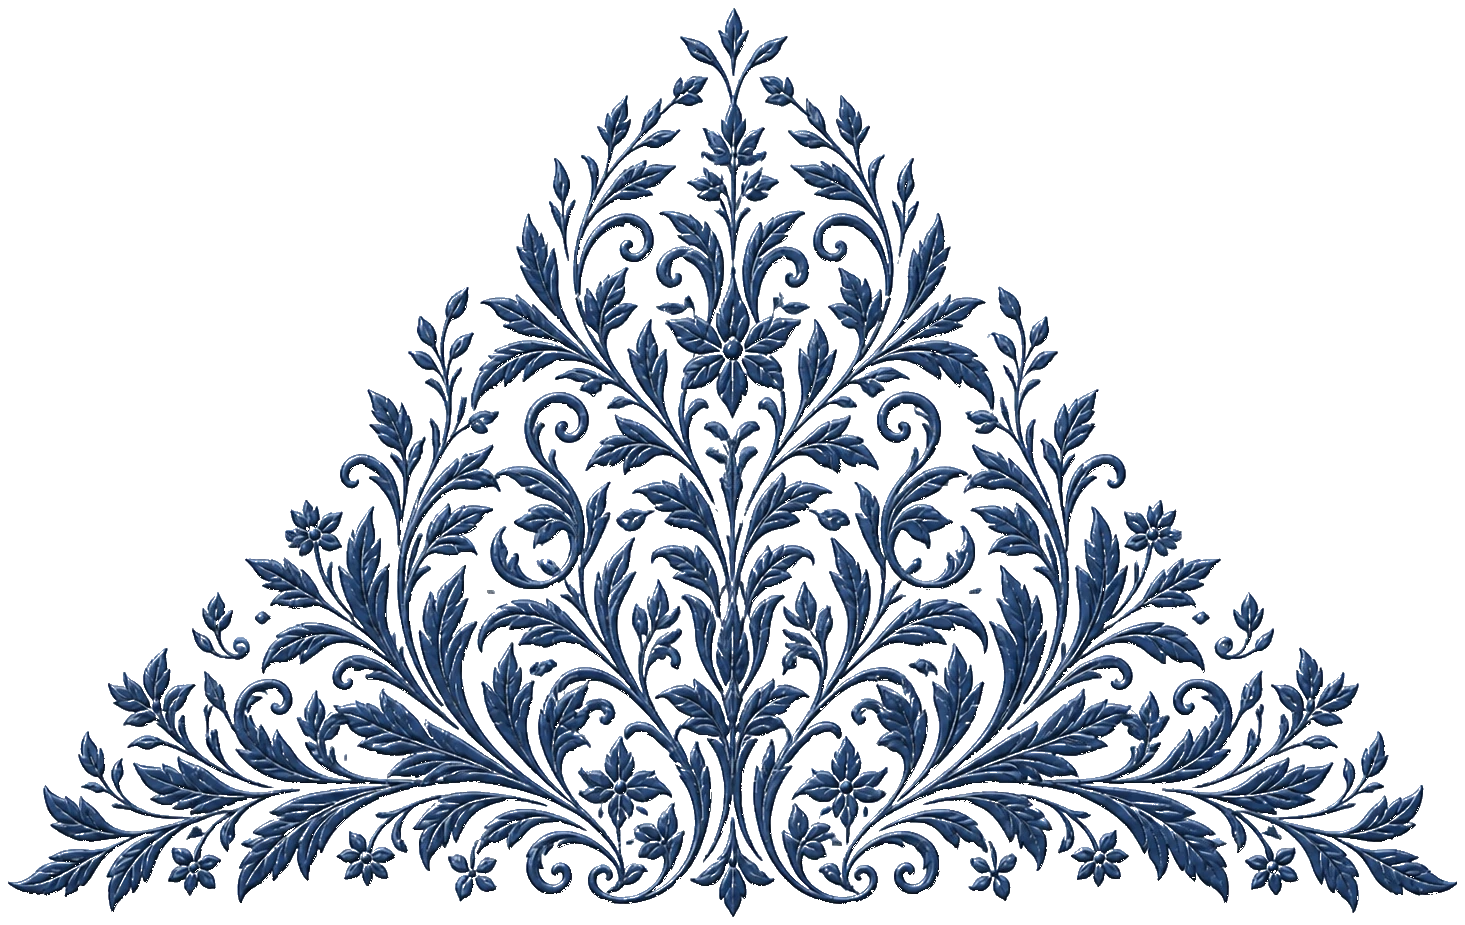
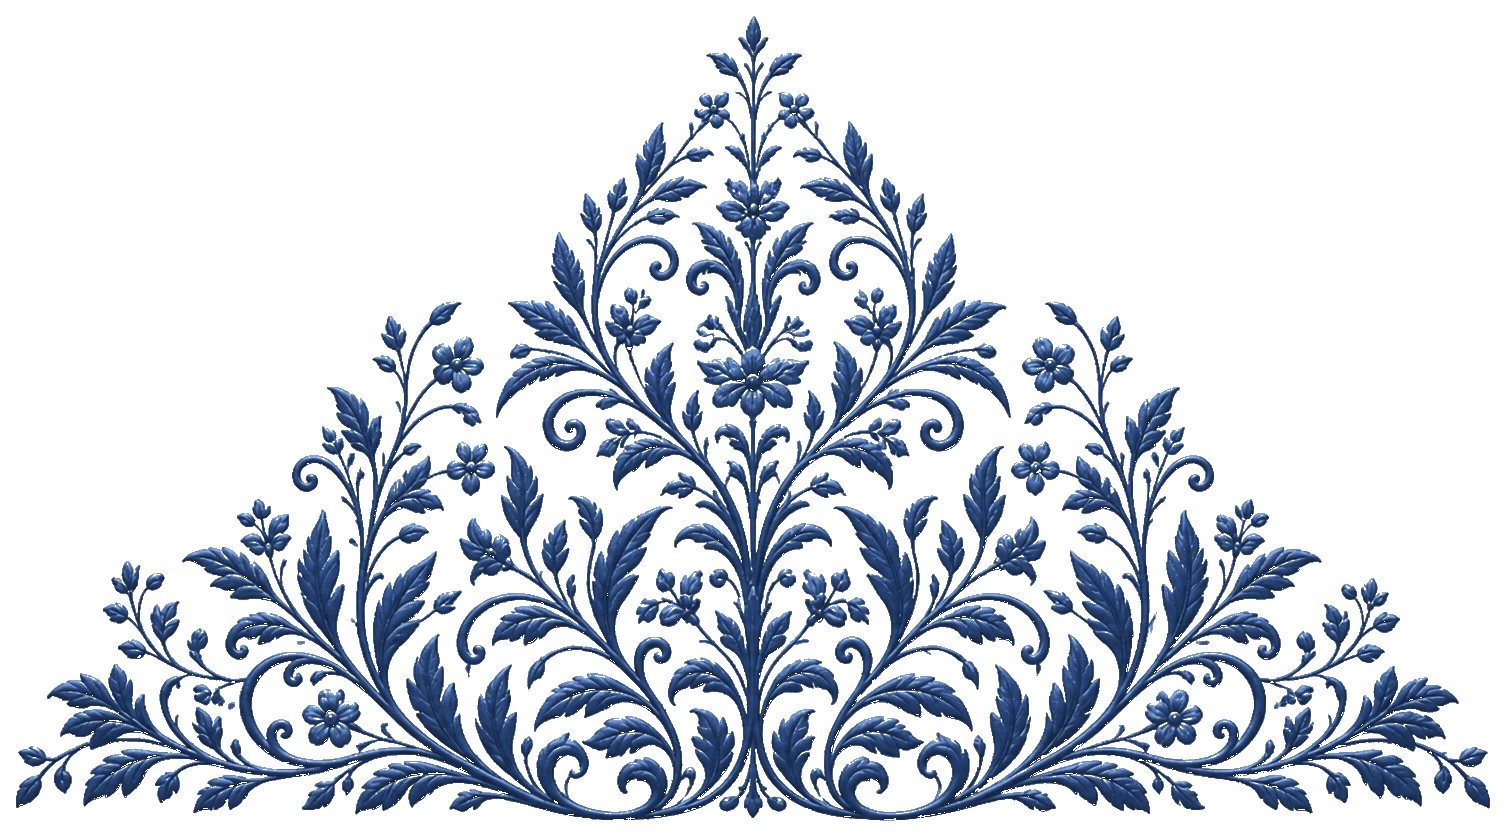
Refresh envelope botanicals with finer tone-on-tone emboss assets
Regenerate delicate per-flap filigree, mirror side vines for symmetry,
derive gold glow layers, and tune emboss contrast for navy paper.

diff --git a/app/globals.css b/app/globals.css
@@ -388,64 +388,72 @@
   }
 
   .envelope-flap-art-emboss {
-    opacity: 0.95;
+    opacity: 0.88;
     mix-blend-mode: normal;
-    filter: brightness(1.55) contrast(1.18) saturate(0.9);
+    filter:
+      brightness(1.28)
+      contrast(1.14)
+      saturate(0.86)
+      drop-shadow(0 1px 1px rgb(4 10 24 / 0.45));
   }
 
   .envelope-flap-art-glow {
     opacity: 0;
     mix-blend-mode: screen;
-    filter: brightness(1.08);
+    filter: brightness(1.05);
   }
 
   .envelope-flap-art-glow.is-lit,
   .intro-envelope-stage.is-illuminated .envelope-flap-art-glow {
-    opacity: 0.9;
+    opacity: 0.78;
     filter:
-      brightness(1.12)
-      drop-shadow(0 0 8px rgb(205 168 79 / 0.4))
-      drop-shadow(0 0 18px rgb(212 182 92 / 0.25));
+      brightness(1.08)
+      drop-shadow(0 0 6px rgb(205 168 79 / 0.32))
+      drop-shadow(0 0 14px rgb(212 182 92 / 0.18));
   }
 
   .intro-envelope-stage.is-illuminated .envelope-flap-art-emboss {
-    opacity: 0.62;
-    filter: brightness(1.35) contrast(1.1) saturate(0.85);
+    opacity: 0.55;
+    filter:
+      brightness(1.35)
+      contrast(1.1)
+      saturate(0.8)
+      drop-shadow(0 0 4px rgb(205 168 79 / 0.18));
   }
 
-  /* Full symmetrical top V — fills upper triangle, clears seal tip */
+  /* Top corner vines — wide, airy, clears text + seal */
   .envelope-flap-art-top {
-    top: 0;
-    left: 1%;
-    right: 1%;
-    height: 58%;
+    top: 1%;
+    left: 0;
+    right: 0;
+    height: 48%;
     background-position: center top;
-    background-size: 108% auto;
+    background-size: 118% auto;
   }
 
   .envelope-flap-art-bottom {
-    left: 1%;
-    right: 1%;
+    left: 2%;
+    right: 2%;
     bottom: 0;
-    height: 56%;
+    height: 54%;
     background-position: center bottom;
-    background-size: 110% auto;
+    background-size: 108% auto;
   }
 
   .envelope-flap-art-side-left {
-    top: 2%;
-    left: -2%;
-    width: 82%;
-    height: 96%;
+    top: 6%;
+    left: 0;
+    width: 58%;
+    height: 88%;
     background-position: left center;
     background-size: contain;
   }
 
   .envelope-flap-art-side-right {
-    top: 2%;
-    right: -2%;
-    width: 82%;
-    height: 96%;
+    top: 6%;
+    right: 0;
+    width: 58%;
+    height: 88%;
     background-position: right center;
     background-size: contain;
   }
